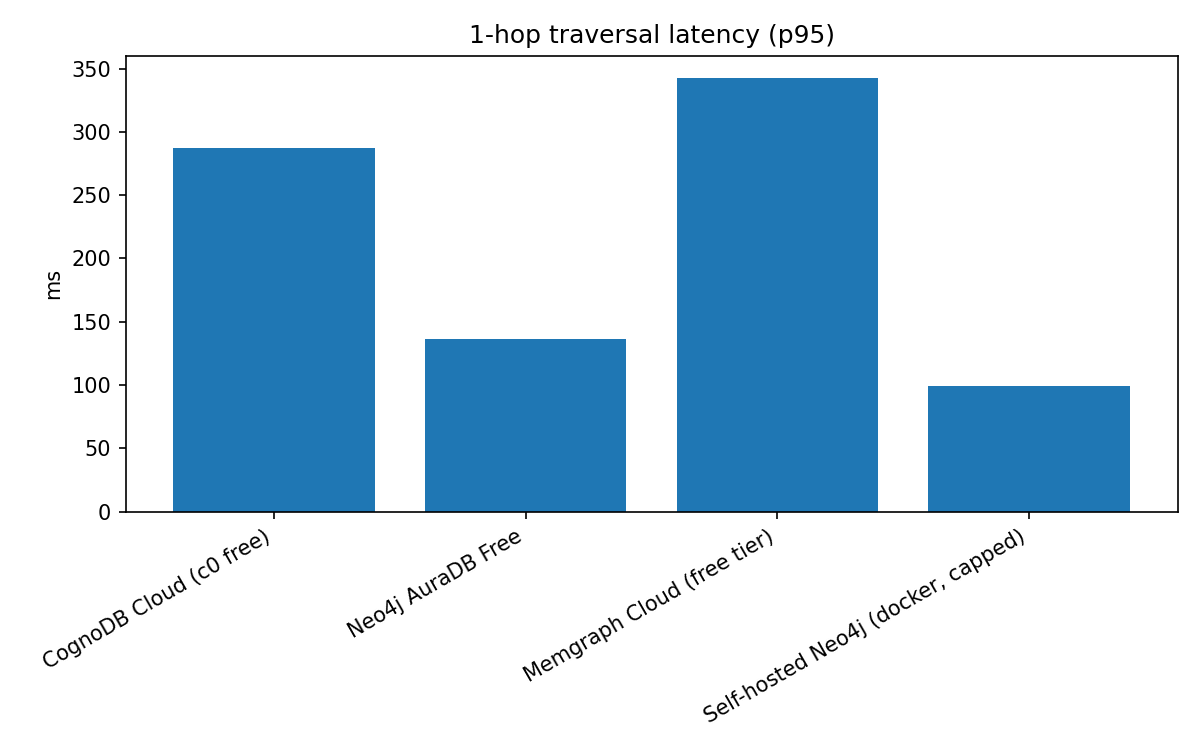
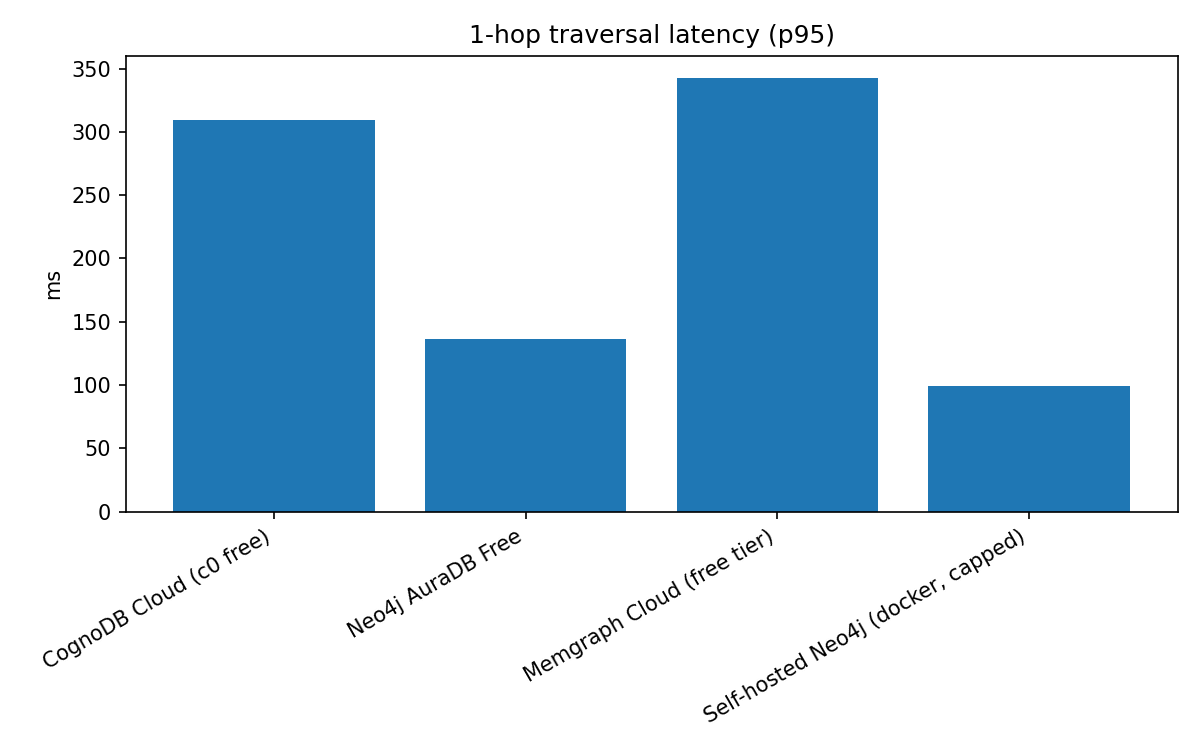
Update benchmark report with latest results

Changed region(s): [[0.1233, 0.1533, 0.3392, 0.2147]]

diff --git a/results/report.md b/results/report.md
@@ -26,7 +26,7 @@ _Auto-generated by harness/build_report.py -- paste into README.md_
 
 | Platform                           | 1-hop p50   | 1-hop p95   | 2-hop p50   | 2-hop p95   | 3-hop p50   | 3-hop p95   |
 |------------------------------------|-------------|-------------|-------------|-------------|-------------|-------------|
-| CognoDB Cloud (c0 free)            | 284.029     | 287.43      | 284.373     | 299.732     | 283.922     | 298.568     |
+| CognoDB Cloud (c0 free)            | 276.719     | 309.392     | 300.266     | 317.547     | 277.483     | 315.318     |
 | Neo4j AuraDB Free                  | 124.3       | 136.755     | 124.037     | 140.128     | 122.777     | 134.487     |
 | Memgraph Cloud (free tier)         | 281.69      | 342.893     | 282.378     | 325.147     | 297.835     | 362.309     |
 | FalkorDB Cloud (free tier)         | n/a         | n/a         | n/a         | n/a         | n/a         | n/a         |
@@ -36,7 +36,7 @@ _Auto-generated by harness/build_report.py -- paste into README.md_
 
 | Platform                           | Point p50   | Point p95   | Filtered p50   | Filtered p95   |
 |------------------------------------|-------------|-------------|----------------|----------------|
-| CognoDB Cloud (c0 free)            | 279.667     | 286.716     | 1081.673       | 1198.547       |
+| CognoDB Cloud (c0 free)            | 302.702     | 335.812     | 1120.976       | 1316.797       |
 | Neo4j AuraDB Free                  | 117.961     | 141.438     | 122.568        | 147.744        |
 | Memgraph Cloud (free tier)         | 287.422     | 320.054     | 318.055        | 473.702        |
 | FalkorDB Cloud (free tier)         | n/a         | n/a         | n/a            | n/a            |
